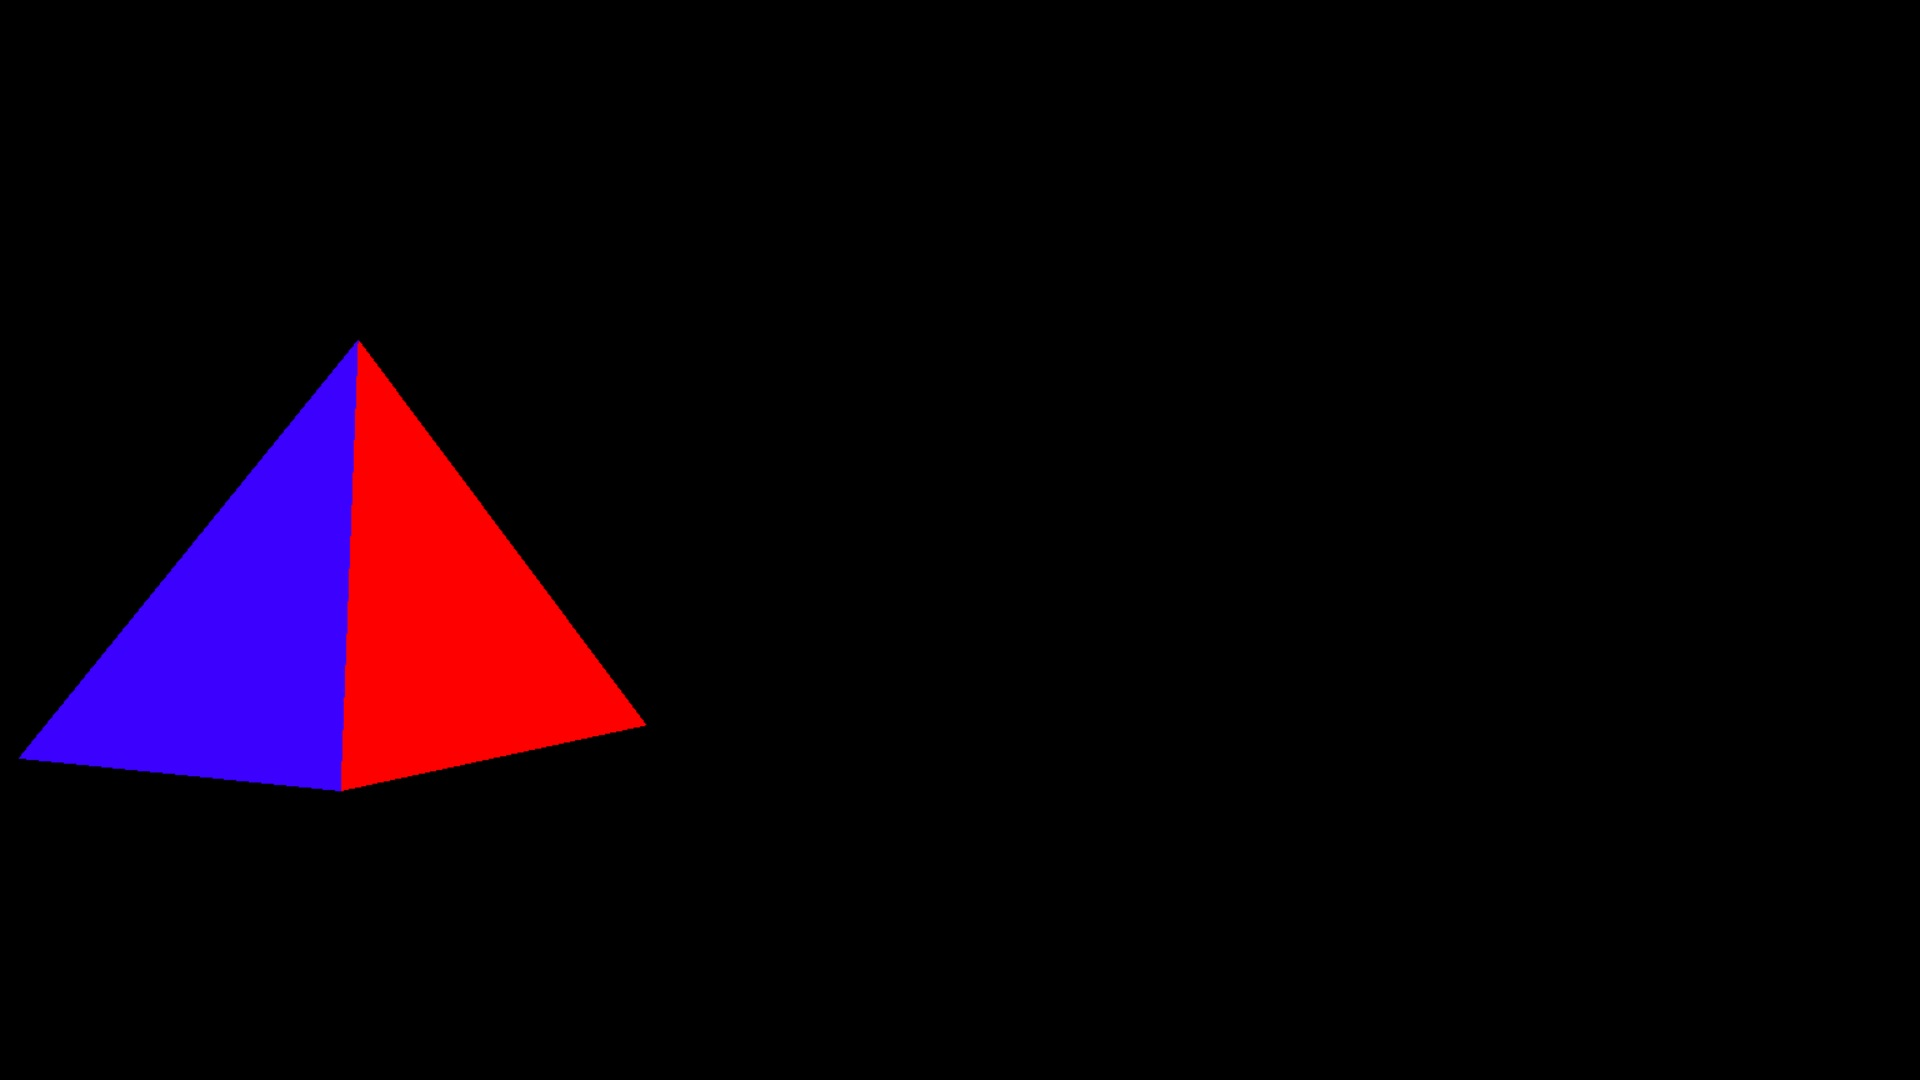
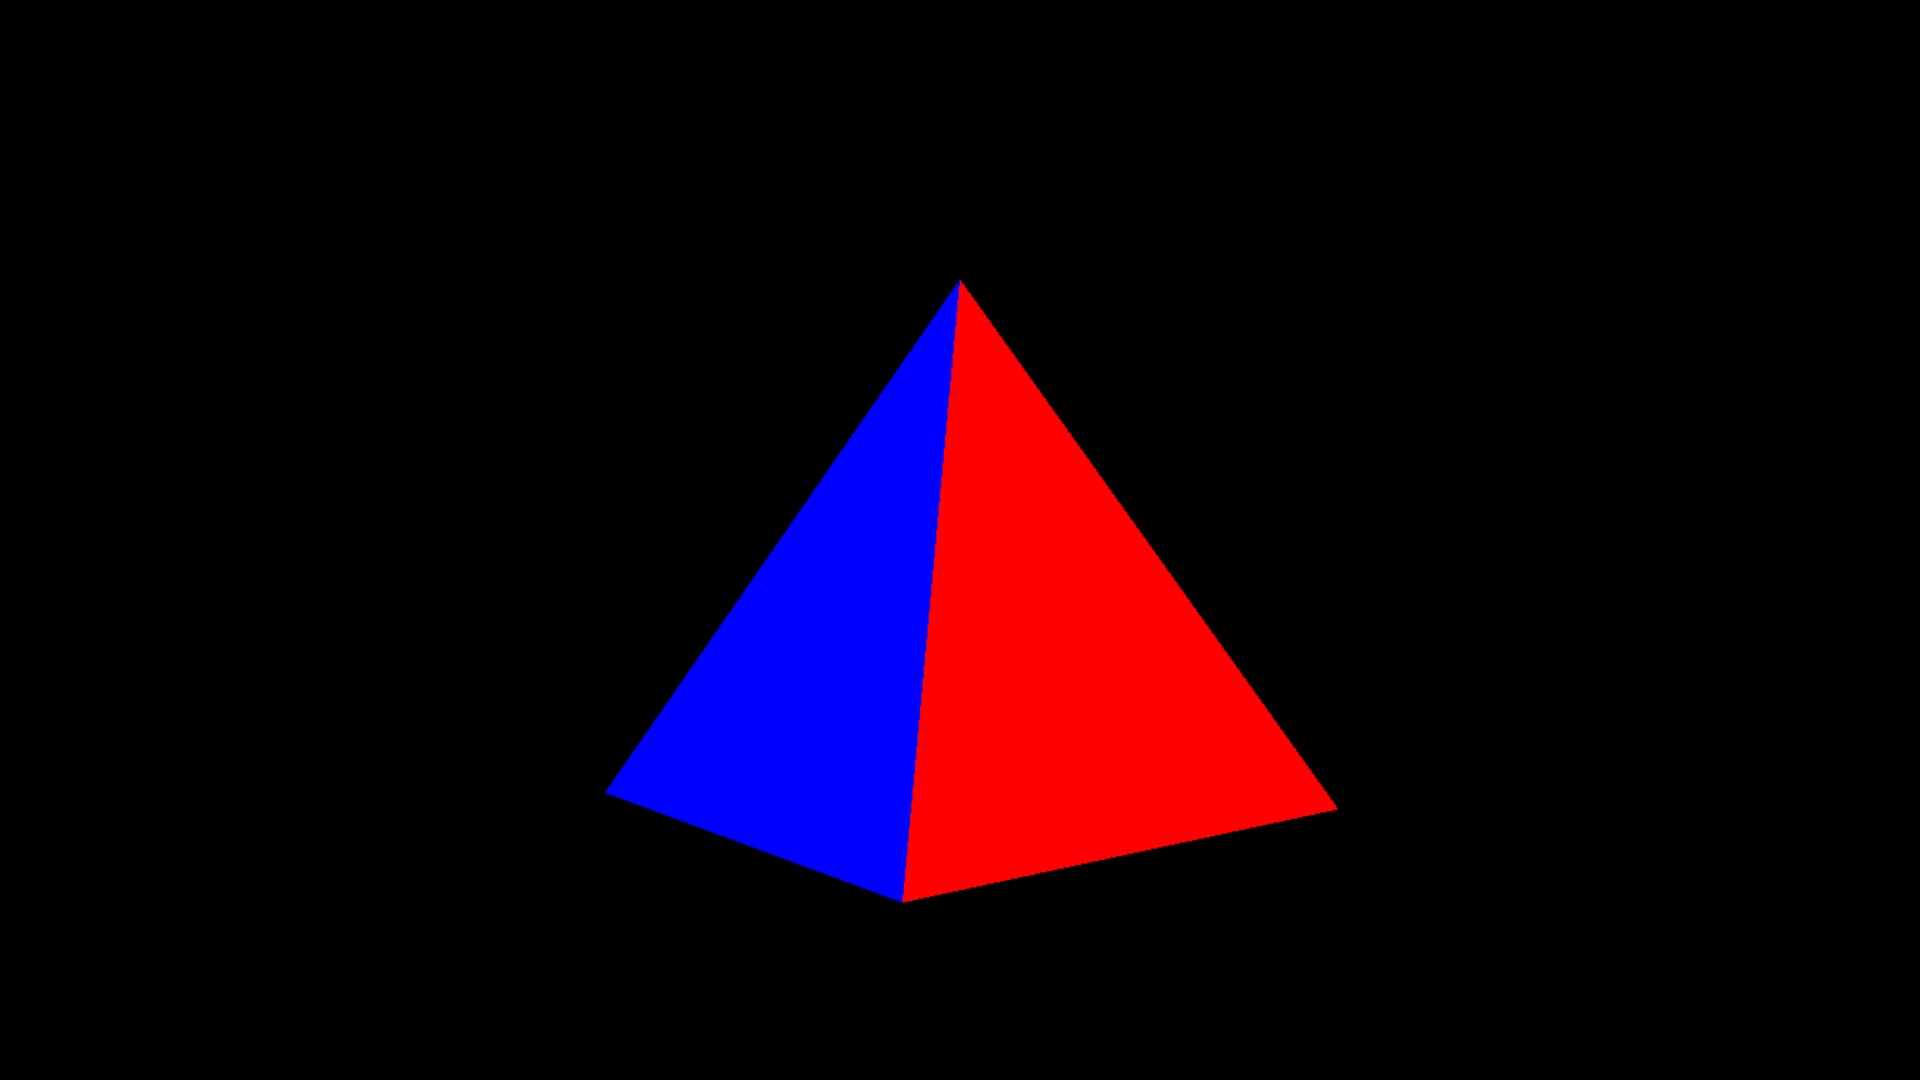
Assign1_2lights enhaced output

Changed region(s): [[0.0, 0.275, 0.7188, 0.8556]]

diff --git a/OpenGL_On_Windows/Native/November19/Assign1_2lights_3D_obj/Assign1_2lights_3D_obj/Source.cpp b/OpenGL_On_Windows/Native/November19/Assign1_2lights_3D_obj/Assign1_2lights_3D_obj/Source.cpp
@@ -191,14 +191,14 @@ void drawCube() {
 	glBegin(GL_QUADS);
 	//front face
 	glNormal3f(0.0f, 0.0, 1.0f);
-	glColor3f(1.0f, 0.0f, 0.0f); //red
+	//glColor3f(1.0f, 0.0f, 0.0f); //red
 	glVertex3f(-1.0f, 1.0f, 1.0f); //left top
 	glVertex3f(-1.0f, -1.0f, 1.0f); //left bottom
 	glVertex3f(1.0f, -1.0f, 1.0f); //right bottom
 	glVertex3f(1.0f, 1.0f, 1.0f); //right top
 
 	glNormal3f(1.0f, 0.0, 0.0f);		  //right face
-	glColor3f(0.0f, 1.0f, 0.0f); //green
+	//glColor3f(0.0f, 1.0f, 0.0f); //green
 	glVertex3f(1.0f, 1.0f, 1.0f); //left top
 	glVertex3f(1.0f, -1.0f, 1.0f); //left bottom
 	glVertex3f(1.0f, -1.0f, -1.0f); //right bottom
@@ -206,28 +206,28 @@ void drawCube() {
 	glVertex3f(1.0f, 1.0f, -1.0f); //right top
 
 	glNormal3f(0.0f, 0.0, -1.0f);			   //back face
-	glColor3f(0.0f, 0.0f, 1.0f); //blue
+	//glColor3f(0.0f, 0.0f, 1.0f); //blue
 	glVertex3f(1.0f, 1.0f, -1.0f); // left top
 	glVertex3f(1.0f, -1.0f, -1.0f); //left bottom
 	glVertex3f(-1.0f, -1.0f, -1.0f); //right bottom
 	glVertex3f(-1.0f, 1.0f, -1.0f); //right top
 
 	glNormal3f(-1.0f, 0.0, 0.0f);					//left face
-	glColor3ub(100, 149, 237); //corn flower
+	//glColor3ub(100, 149, 237); //corn flower
 	glVertex3f(-1.0f, 1.0f, -1.0f); //left top
 	glVertex3f(-1.0f, -1.0f, -1.0f);; //left bottom
 	glVertex3f(-1.0f, -1.0f, 1.0f); //left bottom
 	glVertex3f(-1.0f, 1.0f, 1.0f); //left top
 
 	glNormal3f(0.0f, 1.0, 0.0f);				   //top face
-	glColor3ub(255, 0, 255); //corn flower
+	//glColor3ub(255, 0, 255); //corn flower
 	glVertex3f(-1.0f, 1.0f, 1.0f); //left top
 	glVertex3f(1.0f, 1.0f, 1.0f); //left top
 	glVertex3f(1.0f, 1.0f, -1.0f);; //left bottom
 	glVertex3f(-1.0f, 1.0f, -1.0f); //left bottom
 
 	glNormal3f(0.0f, -1.0, 0.0f);					//bottom face
-	glColor3ub(255, 128, 0); //corn flower
+	//glColor3ub(255, 128, 0); //corn flower
 	glVertex3f(-1.0f, -1.0f, 1.0f); //left top
 	glVertex3f(1.0f, -1.0f, 1.0f); //left top
 	glVertex3f(1.0f, -1.0f, -1.0f);; //left bottom
@@ -242,44 +242,44 @@ void drawPyramid() {
 	glBegin(GL_TRIANGLES);
 	//front face
 	glNormal3f(0.0f, 0.447214f, 0.894427f);
-	glColor3f(1.0f, 0.0f, 0.0f); //red
+	//glColor3f(1.0f, 0.0f, 0.0f); //red
 	glVertex3f(0.0f, 1.0f, 0.0f); //top
 
-	glColor3f(0.0f, 1.0f, 0.0f); //green
+	//glColor3f(0.0f, 1.0f, 0.0f); //green
 	glVertex3f(-1.0f, -1.0f, 1.0f); //left bottom
 
-	glColor3f(0.0f, 0.0f, 1.0f); //blue
+	//glColor3f(0.0f, 0.0f, 1.0f); //blue
 	glVertex3f(1.0f, -1.0f, 1.0f); //right bottom
 
 	glNormal3f(0.894427f, 0.447214f, 0.0f);			   //right face
-	glColor3f(1.0f, 0.0f, 0.0f); //red
+	//glColor3f(1.0f, 0.0f, 0.0f); //red
 	glVertex3f(0.0f, 1.0f, 0.0f); //top
 
-	glColor3f(0.0f, 0.0f, 1.0f); //blue
+	//glColor3f(0.0f, 0.0f, 1.0f); //blue
 	glVertex3f(1.0f, -1.0f, 1.0f);  //left bottom
 
-	glColor3f(0.0f, 1.0f, 0.0f); //green
+	//glColor3f(0.0f, 1.0f, 0.0f); //green
 	glVertex3f(1.0f, -1.0f, -1.0f); //right bottom
 
 	glNormal3f(0.0f, 0.447214f, -0.894427f);		//back face
-	glColor3f(1.0f, 0.0f, 0.0f); //red
+	//glColor3f(1.0f, 0.0f, 0.0f); //red
 	glVertex3f(0.0f, 1.0f, 0.0f); //top
 
-	glColor3f(0.0f, 1.0f, 0.0f); //green
+	//glColor3f(0.0f, 1.0f, 0.0f); //green
 	glVertex3f(1.0f, -1.0f, -1.0f); //left bottom
 
-	glColor3f(0.0f, 0.0f, 1.0f); //blue
+	//glColor3f(0.0f, 0.0f, 1.0f); //blue
 	glVertex3f(-1.0f, -1.0f, -1.0f); //right bottom
 
 	glNormal3f(-0.894427f, 0.447214f, 0.0f);     //left face
-	glColor3f(1.0f, 0.0f, 0.0f); //red
+	//glColor3f(1.0f, 0.0f, 0.0f); //red
 	glVertex3f(0.0f, 1.0f, 0.0f); //top
 
-	glColor3f(0.0f, 0.0f, 1.0f); //blue
+	//glColor3f(0.0f, 0.0f, 1.0f); //blue
 
 	glVertex3f(-1.0f, -1.0f, -1.0f); //left bottom
 
-	glColor3f(0.0f, 1.0f, 0.0f); //green
+	//glColor3f(0.0f, 1.0f, 0.0f); //green
 	glVertex3f(-1.0f, -1.0f, 1.0f); //right bottom
 
 
@@ -289,7 +289,7 @@ void drawSphere() {
 	GLUquadric *quadric = NULL;
 	glPolygonMode(GL_FRONT_AND_BACK, GL_FILL);
 	quadric = gluNewQuadric();
-	gluSphere(quadric, 1.25f, 30, 30);
+	gluSphere(quadric, 1.25f, 100, 100);
 	gluDeleteQuadric(quadric);
 }
 void display() {
@@ -298,7 +298,7 @@ void display() {
 		//Pyramid rotation
 		glMatrixMode(GL_MODELVIEW);
 		glLoadIdentity();
-		glTranslatef(-3.0f, 0.0f, -6.5f);
+		glTranslatef(0.0f, 0.0f, -5.0f);
 		glRotatef(angle_pyramid, 0.0f, 1.0f, 0.0f);
 		drawPyramid();
 	}
@@ -306,7 +306,7 @@ void display() {
 		//Cube rotation
 		glMatrixMode(GL_MODELVIEW);
 		glLoadIdentity();
-		glTranslatef(0.f, 0.0f, -6.5f);
+		glTranslatef(0.0f, 0.0f, -5.5f);
 		//glScalef(0.75f, 0.75f, 0.75f);
 		glRotatef(angle_cube, 0.0f, 1.0f, 0.0f);
 		drawCube();
@@ -314,7 +314,7 @@ void display() {
 	else if (isSphereOn == GL_TRUE) {
 		glMatrixMode(GL_MODELVIEW);
 		glLoadIdentity();
-		glTranslatef(3.0f, 0.0f, -6.5f);
+		glTranslatef(0.0f, 0.0f, -6.5f);
 		glRotatef(angle_sphere, 0.0f, 1.0f, 0.0f);
 		drawSphere();
 	}
@@ -459,19 +459,19 @@ LRESULT CALLBACK WndProc(HWND hwnd, UINT iMsg, WPARAM wParam, LPARAM lParam)
 }
 void update() {
 	if (angle_pyramid < 360.0f) {
-		angle_pyramid = angle_pyramid + 0.1f;
+		angle_pyramid = angle_pyramid + 0.01f;
 	}
 	else {
 		angle_pyramid = 0.0f;
 	}
 	if (angle_cube < 360.f) {
-		angle_cube = angle_cube + 0.1f;
+		angle_cube = angle_cube + 0.01f;
 	}
 	else
 		angle_cube = 0.0f;
 
 	if (angle_sphere < 360.f) {
-		angle_sphere = angle_sphere + 0.1f;
+		angle_sphere = angle_sphere + 0.01f;
 	}
 	else
 		angle_sphere = 0.0f;
